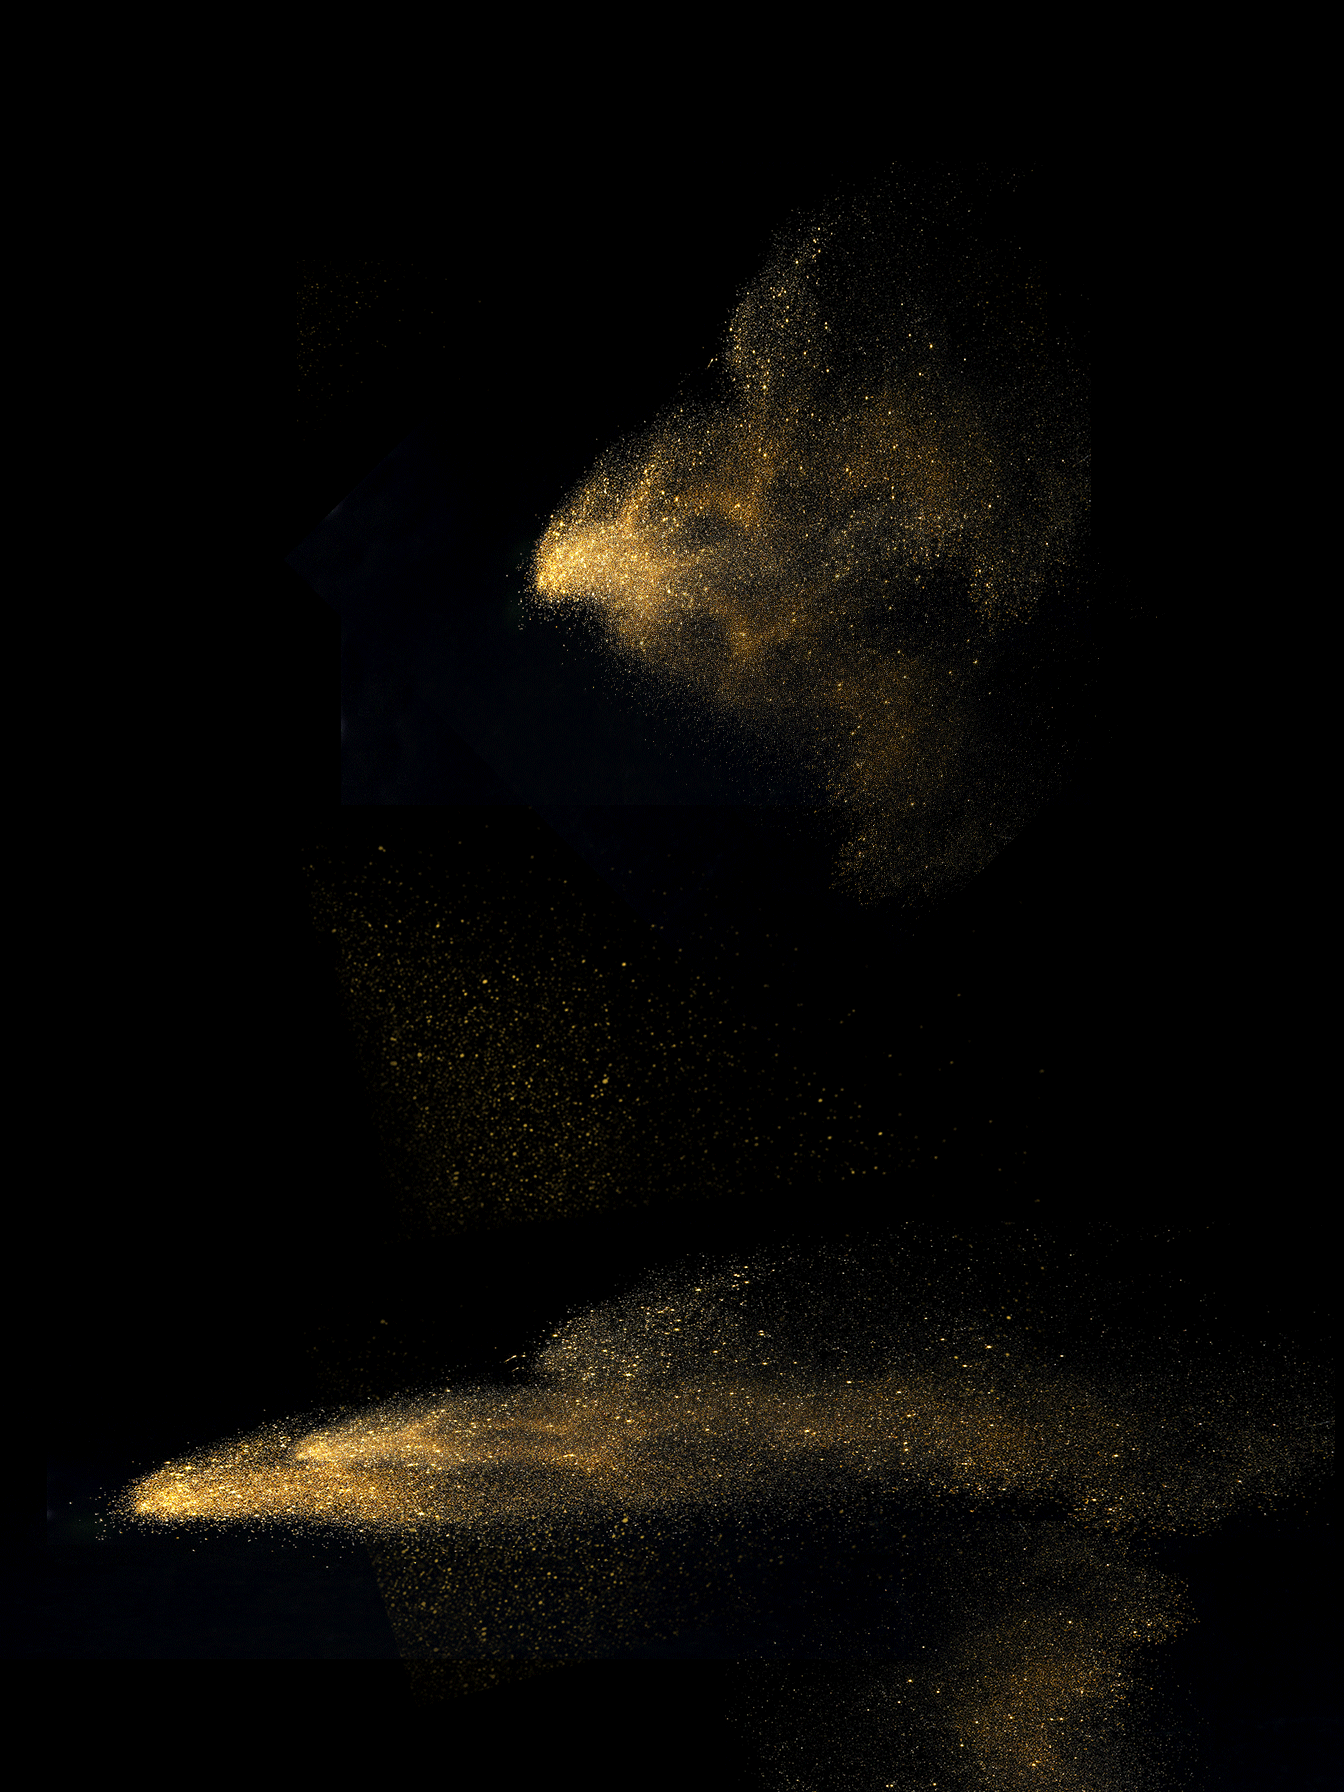
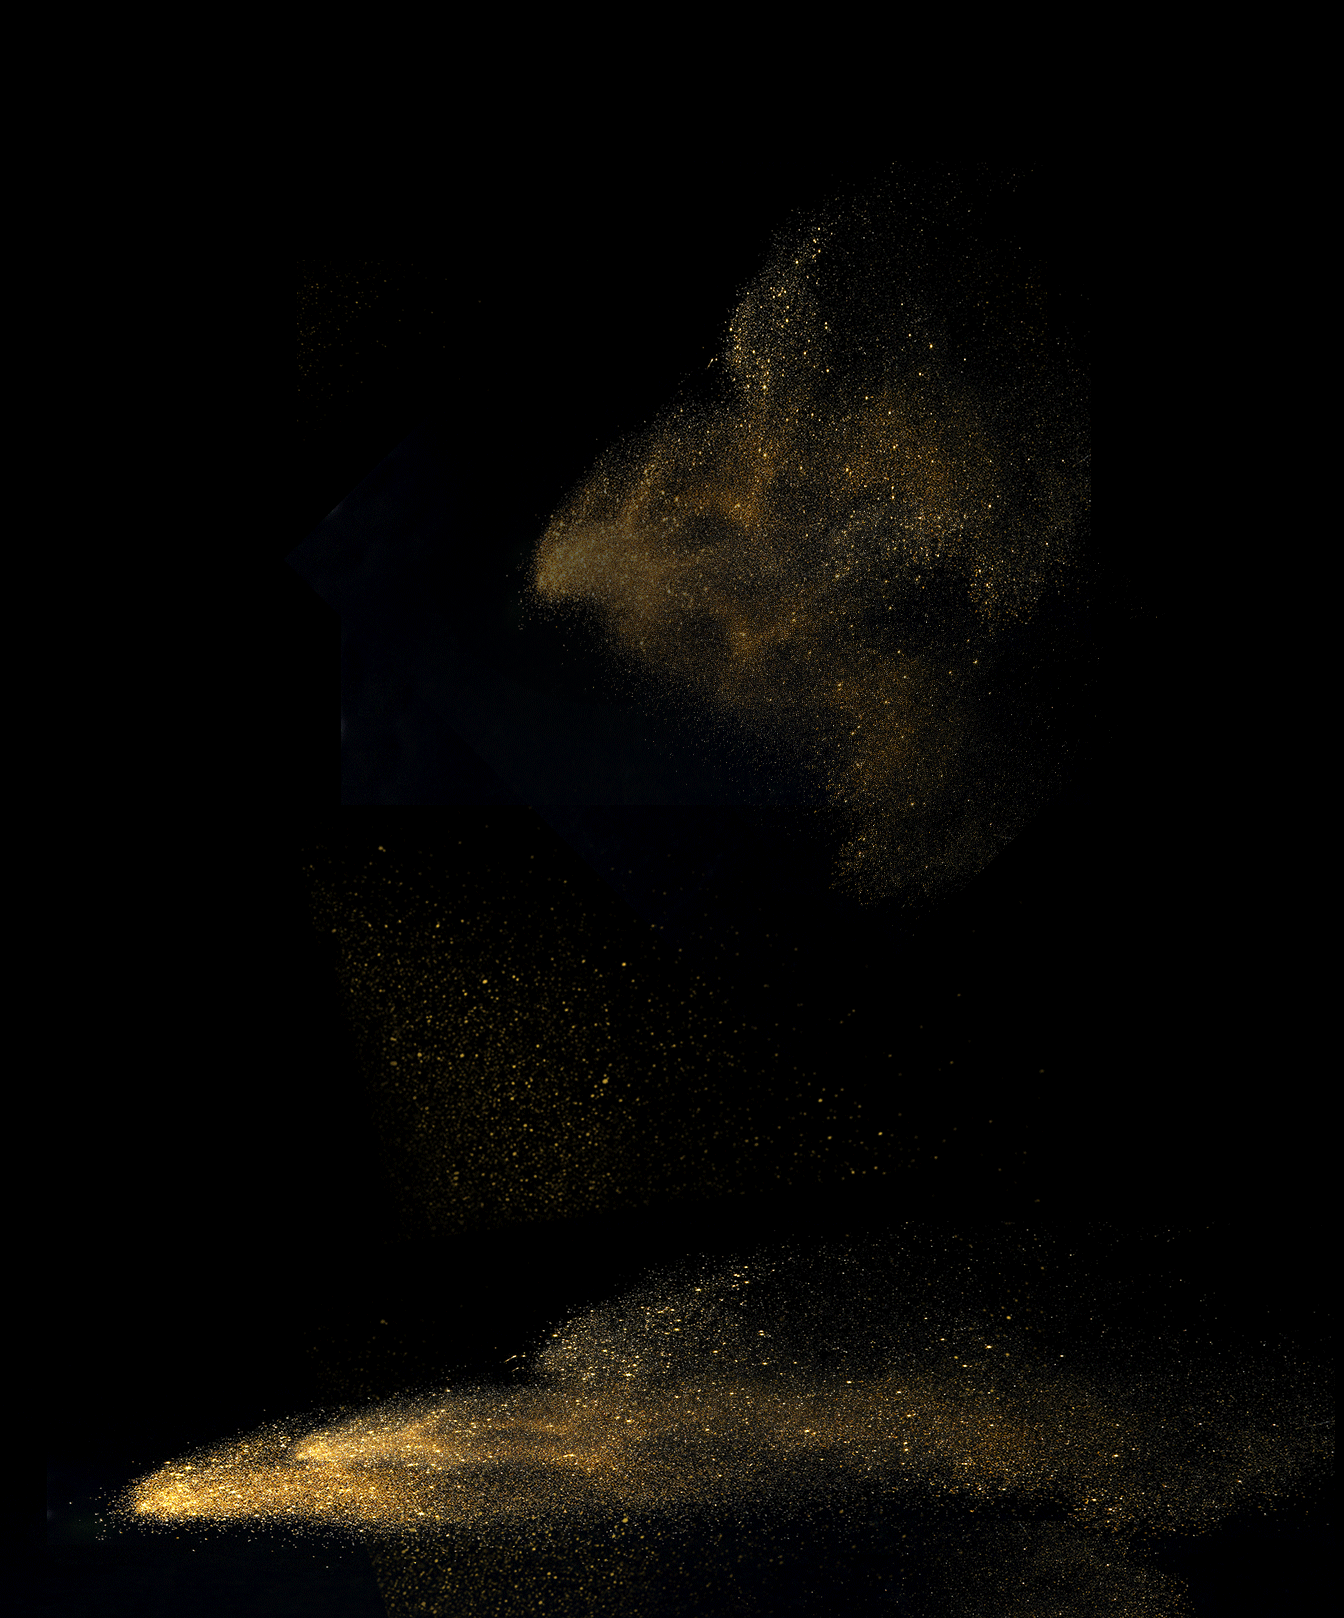
替换背景图片

Changed region(s): [[0.0625, 0.5562, 1.0, 1.0], [0.375, 0.1236, 0.8125, 0.5562]]

diff --git a/src/checkin/view/lookoverpage/index.js b/src/checkin/view/lookoverpage/index.js
@@ -25,19 +25,12 @@ export default class LookoverPage extends React.Component {
    }
 
   
-  handleClick = (e)=>{
-    e.preventDefault();
-    const originalHeight=document.documentElement.clientHeight ||document.body.clientHeight;
-    this.setState({
-      pageTranslate:1,
-      wordAnimate:true,
-      // originalHeight:originalHeight,
-    })
-  } 
 
   handleShowlist = () => {
+    const originalHeight=document.documentElement.clientHeight ||document.body.clientHeight;
     this.setState({
       pageTranslate:-1,
+      wordAnimate:true,
     })
   }
    render(){
